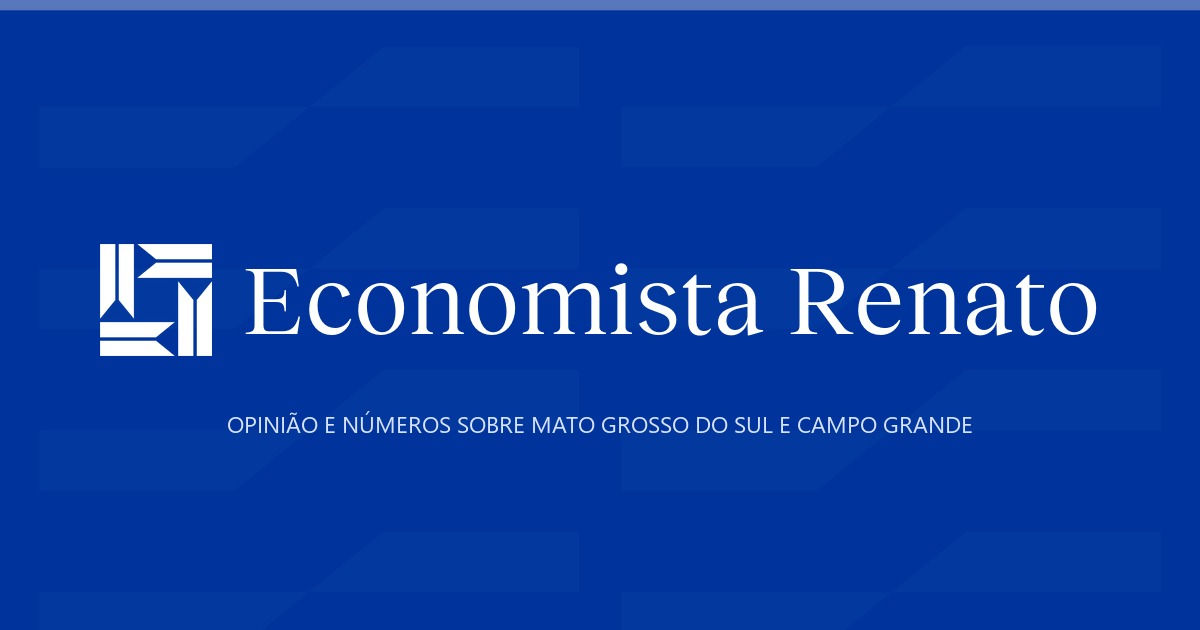
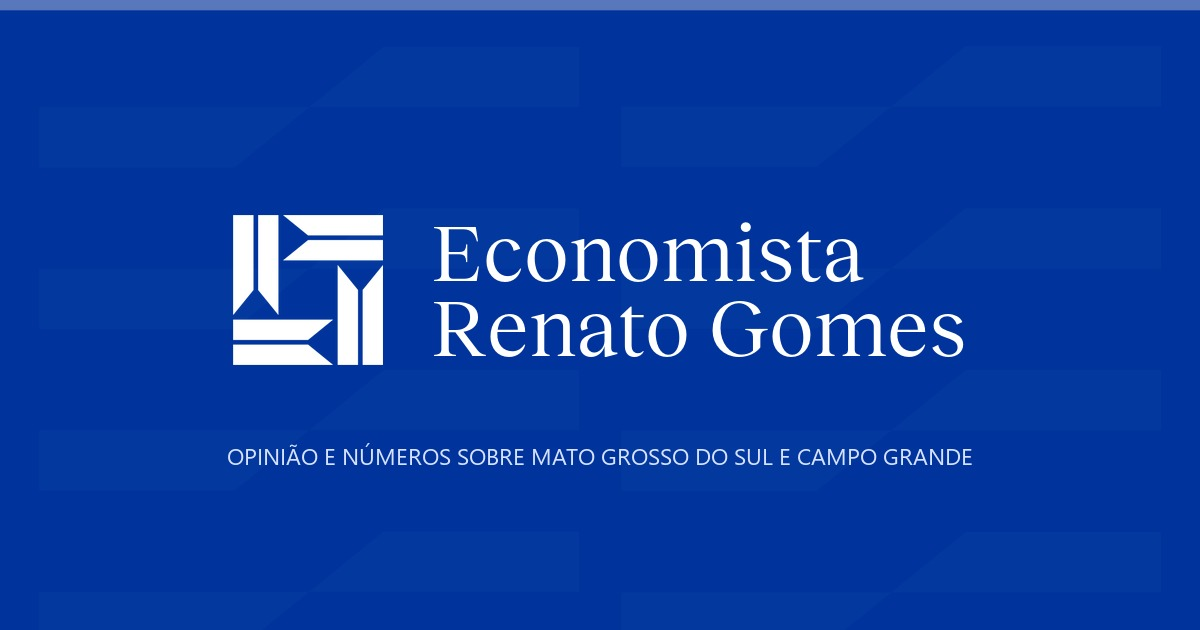
Lockup passa a 'Economista Renato Gomes', nas proporcoes do manual
Double check contra o Manual de Marca v.01 e correcao do que estava fora.

- Nome completo no lockup, em duas linhas, como o arranjo original do kit.
- Proporcoes medidas no vetor rwg_marca_01.ai e aplicadas em CSS: bloco de
  texto com a mesma altura do simbolo (1,00) e respiro de 0,32 do lado do
  simbolo. Conferido no navegador: 1,00 e 0,32.
- Area de nao-interferencia (metade do simbolo em volta, manual pag. 7) vira
  padding do lockup.
- Removido um bloco de CSS duplicado que sobrescrevia essas medidas.
- Imagem de compartilhamento refeita na mesma proporcao.

Changed region(s): [[0.0617, 0.3317, 0.925, 0.6032], [0.185, 0.6635, 0.8325, 0.754]]

diff --git a/site/assets/estilo.css b/site/assets/estilo.css
@@ -448,17 +448,41 @@ footer{border-top:2px solid var(--tinta);margin-top:56px;padding:38px 0 60px}
 }
 
 /* ==========================================================================
-   LOCKUP DA PUBLICACAO — monograma + "Economista Renato" na letra da marca
+   LOCKUP DA PUBLICACAO — "Economista Renato Gomes"
+   Proporcoes medidas no vetor original do kit (rwg_marca_01.ai):
+     bloco de texto = mesma altura do simbolo
+     respiro entre simbolo e texto = 0,32 do lado do simbolo
+     area de nao-interferencia = metade do simbolo em volta (manual, pag. 7)
+   Tipografia do logotipo: Reckless Neue Regular, como manda o manual.
    ========================================================================== */
-.marca-lockup{display:inline-flex;align-items:center;gap:clamp(10px,1.4vw,18px);text-decoration:none}
-.marca-simbolo{width:clamp(36px,4.6vw,52px);height:auto;flex:none}
+.marca-lockup{
+  --sim:clamp(44px,5.2vw,62px);          /* lado do simbolo */
+  display:inline-flex;align-items:center;
+  gap:calc(var(--sim) * .32);
+  padding:calc(var(--sim) / 2);          /* area de nao-interferencia */
+  text-decoration:none;
+}
+.marca-simbolo{width:var(--sim);height:var(--sim);flex:none}
 .marca-nome{
   font-family:var(--display);font-weight:400;font-synthesis-weight:none;
-  font-size:clamp(1.9rem,4.4vw,3.1rem);line-height:1;letter-spacing:-.022em;color:var(--tinta);
-  white-space:nowrap;
+  font-size:calc(var(--sim) * .54);line-height:.92;letter-spacing:-.018em;
+  color:var(--tinta);display:block;
 }
-.marca-lockup.compacta .marca-simbolo{width:30px}
-.marca-lockup.compacta .marca-nome{font-size:clamp(1.25rem,3vw,1.6rem)}
-.rodape-marca .marca-lockup{margin-bottom:14px}
-.rodape-marca .marca-simbolo{width:28px}
-.rodape-marca .marca-nome{font-size:1.4rem}
+.marca-nome span{display:block}
+.marca-lockup.compacta{--sim:34px;padding:calc(var(--sim) / 2) 0}
+.rodape-marca .marca-lockup{--sim:30px;padding:0 0 12px}
+
+/* ==========================================================================
+   CAPA DE DUAS COLUNAS (estado inicial: uma peca + trilho)
+   ========================================================================== */
+.capa-dupla{grid-template-columns:minmax(0,1fr) 340px}
+.capa-dupla .manchete{grid-column:auto}
+
+/* cartoes que apresentam um produto recorrente, nao uma materia */
+.cartao.produto{border-top:3px solid var(--azul);padding-top:18px}
+.cartao.produto .tit{margin-top:2px}
+.cartao.produto .selo{border-color:var(--azul);color:var(--azul)}
+
+@media(max-width:1080px){
+  .capa-dupla{grid-template-columns:1fr}
+}

diff --git a/site/index.html b/site/index.html
@@ -21,7 +21,7 @@
 <link rel="preconnect" href="https://fonts.gstatic.com" crossorigin>
 <link href="https://fonts.googleapis.com/css2?family=Inter:wght@400;500;600;700&family=Newsreader:ital,opsz,wght@0,6..72,300..700;1,6..72,300..600&display=swap" rel="stylesheet">
 <link rel="preload" href="assets/fontes/reckless-neue-regular.woff2" as="font" type="font/woff2" crossorigin>
-<link rel="stylesheet" href="assets/estilo.css?v=20260927c">
+<link rel="stylesheet" href="assets/estilo.css?v=20260927d">
 </head>
 <body>
 
@@ -43,7 +43,7 @@
 <path transform="matrix(1,0,0,-1,933.8877,641.1709)" d="M0 0H89.384L119.162-24.2H0Z"/>
 <path transform="matrix(1,0,0,-1,933.8877,611.3809)" d="M0 0H119.162L89.384-24.2H0Z"/>
 <path transform="matrix(1,0,0,-1,958.0898,486.6289)" d="M0 0V-89.384L-24.199-119.161V0Z"/>
-<path transform="matrix(1,0,0,-1,987.8809,486.6289)" d="M0 0-.001-119.161-24.2-89.384V0Z"/></g></svg><span class="marca-nome">Economista Renato</span></a>
+<path transform="matrix(1,0,0,-1,987.8809,486.6289)" d="M0 0-.001-119.161-24.2-89.384V0Z"/></g></svg><span class="marca-nome"><span>Economista</span><span>Renato Gomes</span></span></a>
       <div class="lema">Opinião e números sobre Mato Grosso do Sul e Campo Grande</div>
       <div class="canto">
         <a class="botao" href="sobre/">Quem sou</a>
@@ -185,7 +185,7 @@
 <path transform="matrix(1,0,0,-1,933.8877,641.1709)" d="M0 0H89.384L119.162-24.2H0Z"/>
 <path transform="matrix(1,0,0,-1,933.8877,611.3809)" d="M0 0H119.162L89.384-24.2H0Z"/>
 <path transform="matrix(1,0,0,-1,958.0898,486.6289)" d="M0 0V-89.384L-24.199-119.161V0Z"/>
-<path transform="matrix(1,0,0,-1,987.8809,486.6289)" d="M0 0-.001-119.161-24.2-89.384V0Z"/></g></svg><span class="marca-nome">Economista Renato</span></a>
+<path transform="matrix(1,0,0,-1,987.8809,486.6289)" d="M0 0-.001-119.161-24.2-89.384V0Z"/></g></svg><span class="marca-nome"><span>Economista</span><span>Renato Gomes</span></span></a>
         <p class="rodape-texto">Análise independente sobre a economia e as contas públicas de Mato Grosso do Sul. Toda afirmação numérica publicada aqui traz a fonte primária: orçamento, Diário Oficial, portais de transparência, IBGE e órgãos de controle.</p>
       </div>
       <div>

diff --git a/site/dados/icms-gondola-ms/index.html b/site/dados/icms-gondola-ms/index.html
@@ -19,7 +19,7 @@
 <link rel="preconnect" href="https://fonts.gstatic.com" crossorigin>
 <link href="https://fonts.googleapis.com/css2?family=Inter:wght@400;500;600;700&family=Newsreader:ital,opsz,wght@0,6..72,300..700;1,6..72,300..600&display=swap" rel="stylesheet">
 <link rel="preload" href="../../assets/fontes/reckless-neue-regular.woff2" as="font" type="font/woff2" crossorigin>
-<link rel="stylesheet" href="../../assets/estilo.css?v=20260927c">
+<link rel="stylesheet" href="../../assets/estilo.css?v=20260927d">
 </head>
 <body>
 
@@ -33,7 +33,7 @@
 <path transform="matrix(1,0,0,-1,933.8877,641.1709)" d="M0 0H89.384L119.162-24.2H0Z"/>
 <path transform="matrix(1,0,0,-1,933.8877,611.3809)" d="M0 0H119.162L89.384-24.2H0Z"/>
 <path transform="matrix(1,0,0,-1,958.0898,486.6289)" d="M0 0V-89.384L-24.199-119.161V0Z"/>
-<path transform="matrix(1,0,0,-1,987.8809,486.6289)" d="M0 0-.001-119.161-24.2-89.384V0Z"/></g></svg><span class="marca-nome">Economista Renato</span></a>
+<path transform="matrix(1,0,0,-1,987.8809,486.6289)" d="M0 0-.001-119.161-24.2-89.384V0Z"/></g></svg><span class="marca-nome"><span>Economista</span><span>Renato Gomes</span></span></a>
     </div>
   </div>
   <nav class="secoes">
@@ -88,7 +88,7 @@
   </div>
 </article>
 
-<script src="../../assets/tabela.js?v=20260927c"></script>
+<script src="../../assets/tabela.js?v=20260927d"></script>
 
 <footer>
   <div class="env">

diff --git a/site/dados/municipios-ms/index.html b/site/dados/municipios-ms/index.html
@@ -19,7 +19,7 @@
 <link rel="preconnect" href="https://fonts.gstatic.com" crossorigin>
 <link href="https://fonts.googleapis.com/css2?family=Inter:wght@400;500;600;700&family=Newsreader:ital,opsz,wght@0,6..72,300..700;1,6..72,300..600&display=swap" rel="stylesheet">
 <link rel="preload" href="../../assets/fontes/reckless-neue-regular.woff2" as="font" type="font/woff2" crossorigin>
-<link rel="stylesheet" href="../../assets/estilo.css?v=20260927c">
+<link rel="stylesheet" href="../../assets/estilo.css?v=20260927d">
 </head>
 <body>
 
@@ -33,7 +33,7 @@
 <path transform="matrix(1,0,0,-1,933.8877,641.1709)" d="M0 0H89.384L119.162-24.2H0Z"/>
 <path transform="matrix(1,0,0,-1,933.8877,611.3809)" d="M0 0H119.162L89.384-24.2H0Z"/>
 <path transform="matrix(1,0,0,-1,958.0898,486.6289)" d="M0 0V-89.384L-24.199-119.161V0Z"/>
-<path transform="matrix(1,0,0,-1,987.8809,486.6289)" d="M0 0-.001-119.161-24.2-89.384V0Z"/></g></svg><span class="marca-nome">Economista Renato</span></a>
+<path transform="matrix(1,0,0,-1,987.8809,486.6289)" d="M0 0-.001-119.161-24.2-89.384V0Z"/></g></svg><span class="marca-nome"><span>Economista</span><span>Renato Gomes</span></span></a>
     </div>
   </div>
   <nav class="secoes">
@@ -88,7 +88,7 @@
   </div>
 </article>
 
-<script src="../../assets/tabela.js?v=20260927c"></script>
+<script src="../../assets/tabela.js?v=20260927d"></script>
 
 <footer>
   <div class="env">

diff --git a/site/dados/renuncia-fiscal-ms-2026/index.html b/site/dados/renuncia-fiscal-ms-2026/index.html
@@ -19,7 +19,7 @@
 <link rel="preconnect" href="https://fonts.gstatic.com" crossorigin>
 <link href="https://fonts.googleapis.com/css2?family=Inter:wght@400;500;600;700&family=Newsreader:ital,opsz,wght@0,6..72,300..700;1,6..72,300..600&display=swap" rel="stylesheet">
 <link rel="preload" href="../../assets/fontes/reckless-neue-regular.woff2" as="font" type="font/woff2" crossorigin>
-<link rel="stylesheet" href="../../assets/estilo.css?v=20260927c">
+<link rel="stylesheet" href="../../assets/estilo.css?v=20260927d">
 </head>
 <body>
 
@@ -33,7 +33,7 @@
 <path transform="matrix(1,0,0,-1,933.8877,641.1709)" d="M0 0H89.384L119.162-24.2H0Z"/>
 <path transform="matrix(1,0,0,-1,933.8877,611.3809)" d="M0 0H119.162L89.384-24.2H0Z"/>
 <path transform="matrix(1,0,0,-1,958.0898,486.6289)" d="M0 0V-89.384L-24.199-119.161V0Z"/>
-<path transform="matrix(1,0,0,-1,987.8809,486.6289)" d="M0 0-.001-119.161-24.2-89.384V0Z"/></g></svg><span class="marca-nome">Economista Renato</span></a>
+<path transform="matrix(1,0,0,-1,987.8809,486.6289)" d="M0 0-.001-119.161-24.2-89.384V0Z"/></g></svg><span class="marca-nome"><span>Economista</span><span>Renato Gomes</span></span></a>
     </div>
   </div>
   <nav class="secoes">
@@ -88,7 +88,7 @@
   </div>
 </article>
 
-<script src="../../assets/tabela.js?v=20260927c"></script>
+<script src="../../assets/tabela.js?v=20260927d"></script>
 
 <footer>
   <div class="env">

diff --git a/site/dados/rodovias-ms/index.html b/site/dados/rodovias-ms/index.html
@@ -19,7 +19,7 @@
 <link rel="preconnect" href="https://fonts.gstatic.com" crossorigin>
 <link href="https://fonts.googleapis.com/css2?family=Inter:wght@400;500;600;700&family=Newsreader:ital,opsz,wght@0,6..72,300..700;1,6..72,300..600&display=swap" rel="stylesheet">
 <link rel="preload" href="../../assets/fontes/reckless-neue-regular.woff2" as="font" type="font/woff2" crossorigin>
-<link rel="stylesheet" href="../../assets/estilo.css?v=20260927c">
+<link rel="stylesheet" href="../../assets/estilo.css?v=20260927d">
 </head>
 <body>
 
@@ -33,7 +33,7 @@
 <path transform="matrix(1,0,0,-1,933.8877,641.1709)" d="M0 0H89.384L119.162-24.2H0Z"/>
 <path transform="matrix(1,0,0,-1,933.8877,611.3809)" d="M0 0H119.162L89.384-24.2H0Z"/>
 <path transform="matrix(1,0,0,-1,958.0898,486.6289)" d="M0 0V-89.384L-24.199-119.161V0Z"/>
-<path transform="matrix(1,0,0,-1,987.8809,486.6289)" d="M0 0-.001-119.161-24.2-89.384V0Z"/></g></svg><span class="marca-nome">Economista Renato</span></a>
+<path transform="matrix(1,0,0,-1,987.8809,486.6289)" d="M0 0-.001-119.161-24.2-89.384V0Z"/></g></svg><span class="marca-nome"><span>Economista</span><span>Renato Gomes</span></span></a>
     </div>
   </div>
   <nav class="secoes">
@@ -88,7 +88,7 @@
   </div>
 </article>
 
-<script src="../../assets/tabela.js?v=20260927c"></script>
+<script src="../../assets/tabela.js?v=20260927d"></script>
 
 <footer>
   <div class="env">

diff --git a/site/artigo/estreia/index.html b/site/artigo/estreia/index.html
@@ -20,7 +20,7 @@
 <link rel="preconnect" href="https://fonts.gstatic.com" crossorigin>
 <link href="https://fonts.googleapis.com/css2?family=Inter:wght@400;500;600;700&family=Newsreader:ital,opsz,wght@0,6..72,300..700;1,6..72,300..600&display=swap" rel="stylesheet">
 <link rel="preload" href="../../assets/fontes/reckless-neue-regular.woff2" as="font" type="font/woff2" crossorigin>
-<link rel="stylesheet" href="../../assets/estilo.css?v=20260927c">
+<link rel="stylesheet" href="../../assets/estilo.css?v=20260927d">
 </head>
 <body>
 
@@ -34,7 +34,7 @@
 <path transform="matrix(1,0,0,-1,933.8877,641.1709)" d="M0 0H89.384L119.162-24.2H0Z"/>
 <path transform="matrix(1,0,0,-1,933.8877,611.3809)" d="M0 0H119.162L89.384-24.2H0Z"/>
 <path transform="matrix(1,0,0,-1,958.0898,486.6289)" d="M0 0V-89.384L-24.199-119.161V0Z"/>
-<path transform="matrix(1,0,0,-1,987.8809,486.6289)" d="M0 0-.001-119.161-24.2-89.384V0Z"/></g></svg><span class="marca-nome">Economista Renato</span></a>
+<path transform="matrix(1,0,0,-1,987.8809,486.6289)" d="M0 0-.001-119.161-24.2-89.384V0Z"/></g></svg><span class="marca-nome"><span>Economista</span><span>Renato Gomes</span></span></a>
     </div>
   </div>
   <nav class="secoes">

diff --git a/site/dados/index.html b/site/dados/index.html
@@ -19,7 +19,7 @@
 <link rel="preconnect" href="https://fonts.gstatic.com" crossorigin>
 <link href="https://fonts.googleapis.com/css2?family=Inter:wght@400;500;600;700&family=Newsreader:ital,opsz,wght@0,6..72,300..700;1,6..72,300..600&display=swap" rel="stylesheet">
 <link rel="preload" href="../assets/fontes/reckless-neue-regular.woff2" as="font" type="font/woff2" crossorigin>
-<link rel="stylesheet" href="../assets/estilo.css?v=20260927c">
+<link rel="stylesheet" href="../assets/estilo.css?v=20260927d">
 </head>
 <body>
 
@@ -33,7 +33,7 @@
 <path transform="matrix(1,0,0,-1,933.8877,641.1709)" d="M0 0H89.384L119.162-24.2H0Z"/>
 <path transform="matrix(1,0,0,-1,933.8877,611.3809)" d="M0 0H119.162L89.384-24.2H0Z"/>
 <path transform="matrix(1,0,0,-1,958.0898,486.6289)" d="M0 0V-89.384L-24.199-119.161V0Z"/>
-<path transform="matrix(1,0,0,-1,987.8809,486.6289)" d="M0 0-.001-119.161-24.2-89.384V0Z"/></g></svg><span class="marca-nome">Economista Renato</span></a>
+<path transform="matrix(1,0,0,-1,987.8809,486.6289)" d="M0 0-.001-119.161-24.2-89.384V0Z"/></g></svg><span class="marca-nome"><span>Economista</span><span>Renato Gomes</span></span></a>
     </div>
   </div>
   <nav class="secoes">

diff --git a/site/sobre/index.html b/site/sobre/index.html
@@ -20,7 +20,7 @@
 <link rel="preconnect" href="https://fonts.gstatic.com" crossorigin>
 <link href="https://fonts.googleapis.com/css2?family=Inter:wght@400;500;600;700&family=Newsreader:ital,opsz,wght@0,6..72,300..700;1,6..72,300..600&display=swap" rel="stylesheet">
 <link rel="preload" href="../assets/fontes/reckless-neue-regular.woff2" as="font" type="font/woff2" crossorigin>
-<link rel="stylesheet" href="../assets/estilo.css?v=20260927c">
+<link rel="stylesheet" href="../assets/estilo.css?v=20260927d">
 </head>
 <body>
 
@@ -34,7 +34,7 @@
 <path transform="matrix(1,0,0,-1,933.8877,641.1709)" d="M0 0H89.384L119.162-24.2H0Z"/>
 <path transform="matrix(1,0,0,-1,933.8877,611.3809)" d="M0 0H119.162L89.384-24.2H0Z"/>
 <path transform="matrix(1,0,0,-1,958.0898,486.6289)" d="M0 0V-89.384L-24.199-119.161V0Z"/>
-<path transform="matrix(1,0,0,-1,987.8809,486.6289)" d="M0 0-.001-119.161-24.2-89.384V0Z"/></g></svg><span class="marca-nome">Economista Renato</span></a>
+<path transform="matrix(1,0,0,-1,987.8809,486.6289)" d="M0 0-.001-119.161-24.2-89.384V0Z"/></g></svg><span class="marca-nome"><span>Economista</span><span>Renato Gomes</span></span></a>
     </div>
   </div>
   <nav class="secoes">

diff --git a/site/obrigado/index.html b/site/obrigado/index.html
@@ -11,7 +11,7 @@
 <link rel="preconnect" href="https://fonts.gstatic.com" crossorigin>
 <link href="https://fonts.googleapis.com/css2?family=Inter:wght@400;500;600;700&family=Newsreader:ital,opsz,wght@0,6..72,300..700;1,6..72,300..600&display=swap" rel="stylesheet">
 <link rel="preload" href="../assets/fontes/reckless-neue-regular.woff2" as="font" type="font/woff2" crossorigin>
-<link rel="stylesheet" href="../assets/estilo.css?v=20260927c">
+<link rel="stylesheet" href="../assets/estilo.css?v=20260927d">
 </head>
 <body>
 
@@ -25,7 +25,7 @@
 <path transform="matrix(1,0,0,-1,933.8877,641.1709)" d="M0 0H89.384L119.162-24.2H0Z"/>
 <path transform="matrix(1,0,0,-1,933.8877,611.3809)" d="M0 0H119.162L89.384-24.2H0Z"/>
 <path transform="matrix(1,0,0,-1,958.0898,486.6289)" d="M0 0V-89.384L-24.199-119.161V0Z"/>
-<path transform="matrix(1,0,0,-1,987.8809,486.6289)" d="M0 0-.001-119.161-24.2-89.384V0Z"/></g></svg><span class="marca-nome">Economista Renato</span></a>
+<path transform="matrix(1,0,0,-1,987.8809,486.6289)" d="M0 0-.001-119.161-24.2-89.384V0Z"/></g></svg><span class="marca-nome"><span>Economista</span><span>Renato Gomes</span></span></a>
     </div>
   </div>
 </header>

diff --git a/scripts/gera_dados.py b/scripts/gera_dados.py
@@ -368,7 +368,7 @@ CABECA = u"""<!DOCTYPE html>
 <link rel="preconnect" href="https://fonts.gstatic.com" crossorigin>
 <link href="https://fonts.googleapis.com/css2?family=Inter:wght@400;500;600;700&family=Newsreader:ital,opsz,wght@0,6..72,300..700;1,6..72,300..600&display=swap" rel="stylesheet">
 <link rel="preload" href="{r}assets/fontes/reckless-neue-regular.woff2" as="font" type="font/woff2" crossorigin>
-<link rel="stylesheet" href="{r}assets/estilo.css?v=20260927c">
+<link rel="stylesheet" href="{r}assets/estilo.css?v=20260927d">
 </head>
 <body>
 
@@ -382,7 +382,7 @@ CABECA = u"""<!DOCTYPE html>
 <path transform="matrix(1,0,0,-1,933.8877,641.1709)" d="M0 0H89.384L119.162-24.2H0Z"/>
 <path transform="matrix(1,0,0,-1,933.8877,611.3809)" d="M0 0H119.162L89.384-24.2H0Z"/>
 <path transform="matrix(1,0,0,-1,958.0898,486.6289)" d="M0 0V-89.384L-24.199-119.161V0Z"/>
-<path transform="matrix(1,0,0,-1,987.8809,486.6289)" d="M0 0-.001-119.161-24.2-89.384V0Z"/></g></svg><span class="marca-nome">Economista Renato</span></a>
+<path transform="matrix(1,0,0,-1,987.8809,486.6289)" d="M0 0-.001-119.161-24.2-89.384V0Z"/></g></svg><span class="marca-nome"><span>Economista</span><span>Renato Gomes</span></span></a>
     </div>
   </div>
   <nav class="secoes">
@@ -483,7 +483,7 @@ def pagina_base(meta):
   </div>
 </article>
 
-<script src="{r}assets/tabela.js?v=20260927c"></script>
+<script src="{r}assets/tabela.js?v=20260927d"></script>
 """
     html = (CABECA.format(titulo=meta["titulo"], resumo=meta["resumo"],
                           canonico=meta["slug"] + "/", r="../../") +
